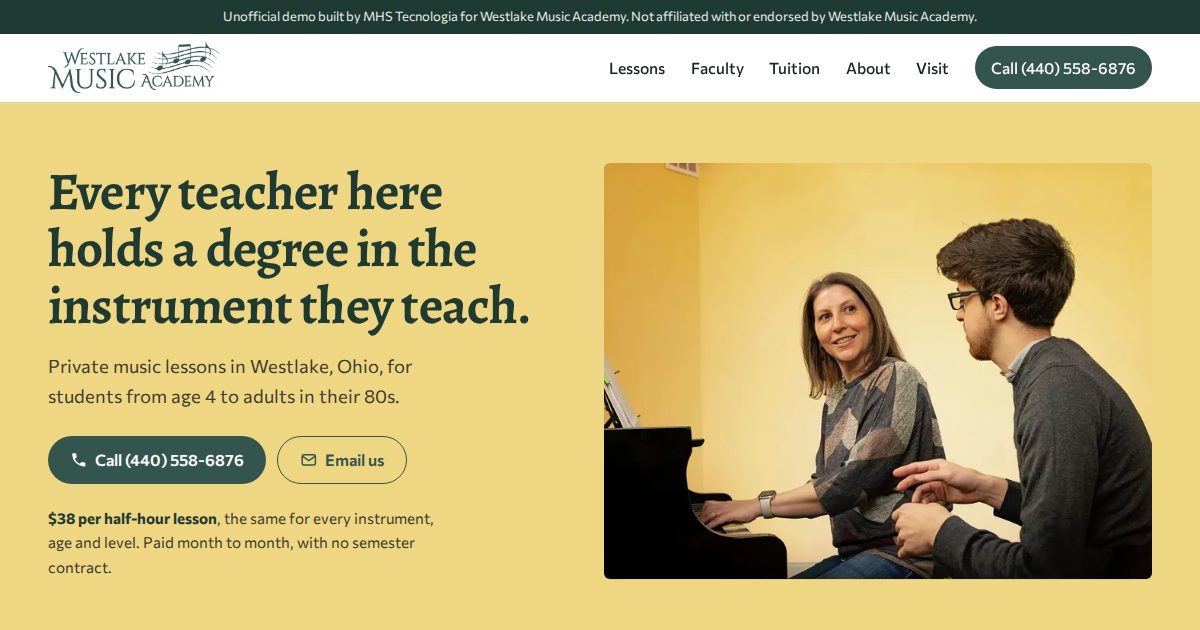
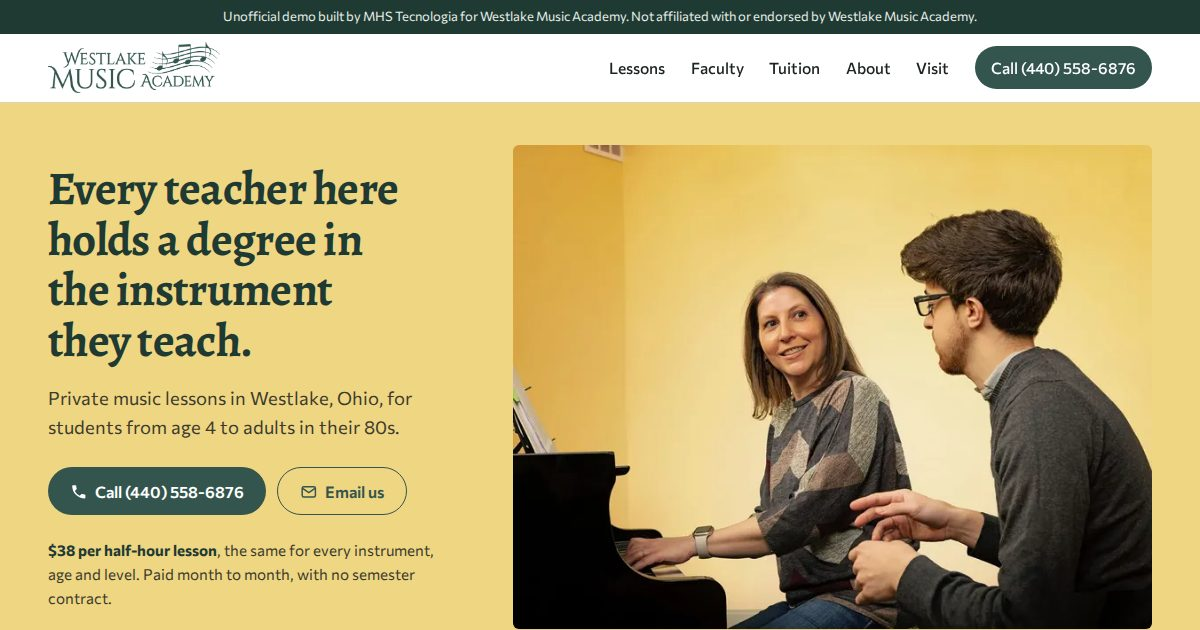
Previews: 98 ativos

diff --git a/westlake-music-academy-westlake-oh/index.html b/westlake-music-academy-westlake-oh/index.html
@@ -10,7 +10,7 @@
 <link rel="icon" href="data:,">
 <link rel="preload" href="fonts/alegreya.woff2" as="font" type="font/woff2" crossorigin>
 <link rel="preload" as="image" href="img/hero-m.webp" imagesrcset="img/hero-m.webp 800w" imagesizes="calc(100vw - 2rem)" media="(max-width: 760px)" fetchpriority="high">
-<link rel="preload" as="image" href="img/hero-1100.webp" imagesrcset="img/hero-720.webp 720w, img/hero-1100.webp 1100w" imagesizes="(min-width: 1216px) 620px, 52vw" media="(min-width: 761px)" fetchpriority="high">
+<link rel="preload" as="image" href="img/hero-1100.webp" imagesrcset="img/hero-720.webp 720w, img/hero-1100.webp 1100w" imagesizes="(min-width: 1216px) 700px, 58vw" media="(min-width: 761px)" fetchpriority="high">
 <style>
 @font-face{font-family:"Alegreya";font-weight:400 900;font-style:normal;font-display:swap;src:url(fonts/alegreya.woff2) format("woff2")}
 @font-face{font-family:"Alegreya";font-weight:400 900;font-style:italic;font-display:swap;src:url(fonts/alegreya-italic.woff2) format("woff2")}
@@ -67,8 +67,8 @@ p{max-width:64ch}
 
 /* hero: the lesson-room wall runs behind the photo */
 .hero{background:var(--wall)}
-.hero .wrap{display:grid;grid-template-columns:1fr 1.08fr;gap:clamp(1.5rem,4vw,4rem);align-items:center;padding-block:clamp(2.5rem,5vw,4.5rem)}
-.hero h1{font-size:clamp(2.1rem,4.4vw,3.85rem);letter-spacing:-.015em}
+.hero .wrap{display:grid;grid-template-columns:.86fr 1.3fr;gap:clamp(1.5rem,3.5vw,3.5rem);align-items:center;padding-block:clamp(2rem,3.5vw,3rem)}
+.hero h1{font-size:clamp(2.1rem,3.9vw,3.4rem);letter-spacing:-.015em}
 .hero .sub{font-size:1.15rem;margin-top:1.1rem;color:#3b3a2c;max-width:34ch}
 .hero .actions{display:flex;flex-wrap:wrap;gap:.7rem;margin-top:1.6rem}
 .hero .fact{margin-top:1.4rem;font-size:.95rem;color:#3b3a2c;max-width:40ch}
@@ -82,7 +82,7 @@ p{max-width:64ch}
   .hero .actions{margin-top:1rem;flex-wrap:nowrap}
   .hero .actions .btn{flex:1 1 auto;padding-inline:.85rem;font-size:.94rem;white-space:nowrap;gap:.4rem}
   .hero .actions .btn.solid{flex-grow:1.6}
-  .hero .fact{display:none}
+  .hero .fact{margin-top:.75rem;font-size:.88rem;line-height:1.45}
 }
 
 /* the instrument finder (signature) */
@@ -119,6 +119,11 @@ p{max-width:64ch}
   .sheet ul{grid-template-columns:1fr}
 }
 
+/* recognition, in their own words, as text */
+.honors{border-block:1px solid var(--rule)}
+.honors .wrap{display:flex;flex-wrap:wrap;justify-content:center;gap:.6rem 3rem;padding-block:1.3rem;text-align:center}
+.honors p{font-family:var(--serif);font-size:1.15rem;color:var(--muted);max-width:none}
+.honors strong{color:var(--green-deep)}
 /* how a month of lessons works */
 .month{background:var(--wall-soft);padding-block:clamp(3rem,7vw,6rem)}
 .month .wrap{display:grid;grid-template-columns:1fr 1fr;gap:clamp(2rem,5vw,4.5rem);align-items:start}
@@ -260,7 +265,7 @@ footer.foot .legal{grid-column:1/-1;border-top:1px solid #2f413a;padding-top:1.2
   <figure>
    <picture>
     <source media="(max-width: 760px)" srcset="img/hero-m.webp 800w" sizes="calc(100vw - 2rem)" width="800" height="474">
-    <img src="img/hero-1100.webp" srcset="img/hero-720.webp 720w, img/hero-1100.webp 1100w" sizes="(min-width: 1216px) 620px, 52vw" width="1100" height="835" alt="A teacher sitting beside her student at a grand piano in a yellow lesson room" fetchpriority="high">
+    <img src="img/hero-1100.webp" srcset="img/hero-720.webp 720w, img/hero-1100.webp 1100w" sizes="(min-width: 1216px) 700px, 58vw" width="1100" height="835" alt="A teacher sitting beside her student at a grand piano in a yellow lesson room" fetchpriority="high">
    </picture>
   </figure>
  </div>
@@ -314,11 +319,17 @@ footer.foot .legal{grid-column:1/-1;border-top:1px solid #2f413a;padding-top:1.2
   </div>
  </div>
 </section>
+<section class="honors" aria-label="Recognition">
+ <div class="wrap">
+  <p><strong>Cleveland Magazine Best of the West 2020</strong>, Music Instruction</p>
+  <p><strong>Lessons.com Best Piano Lessons in Lakewood 2024</strong></p>
+ </div>
+</section>
 <section class="month" aria-labelledby="month-h">
  <div class="wrap">
   <figure>
    <img src="img/room-960.webp" srcset="img/room-560.webp 560w, img/room-960.webp 960w" sizes="(min-width: 1216px) 560px, (min-width: 761px) 46vw, calc(100vw - 2rem)" width="960" height="640" alt="An empty lesson room with an upright piano and a window in the door" loading="lazy" decoding="async">
-   <figcaption>Every lesson room has a window in the door.</figcaption>
+   <figcaption>Every lesson room has an observation window.</figcaption>
   </figure>
   <div>
    <h2 id="month-h">How lessons work</h2>

diff --git a/westlake-music-academy-westlake-oh/lessons.html b/westlake-music-academy-westlake-oh/lessons.html
@@ -65,8 +65,8 @@ p{max-width:64ch}
 
 /* hero: the lesson-room wall runs behind the photo */
 .hero{background:var(--wall)}
-.hero .wrap{display:grid;grid-template-columns:1fr 1.08fr;gap:clamp(1.5rem,4vw,4rem);align-items:center;padding-block:clamp(2.5rem,5vw,4.5rem)}
-.hero h1{font-size:clamp(2.1rem,4.4vw,3.85rem);letter-spacing:-.015em}
+.hero .wrap{display:grid;grid-template-columns:.86fr 1.3fr;gap:clamp(1.5rem,3.5vw,3.5rem);align-items:center;padding-block:clamp(2rem,3.5vw,3rem)}
+.hero h1{font-size:clamp(2.1rem,3.9vw,3.4rem);letter-spacing:-.015em}
 .hero .sub{font-size:1.15rem;margin-top:1.1rem;color:#3b3a2c;max-width:34ch}
 .hero .actions{display:flex;flex-wrap:wrap;gap:.7rem;margin-top:1.6rem}
 .hero .fact{margin-top:1.4rem;font-size:.95rem;color:#3b3a2c;max-width:40ch}
@@ -80,7 +80,7 @@ p{max-width:64ch}
   .hero .actions{margin-top:1rem;flex-wrap:nowrap}
   .hero .actions .btn{flex:1 1 auto;padding-inline:.85rem;font-size:.94rem;white-space:nowrap;gap:.4rem}
   .hero .actions .btn.solid{flex-grow:1.6}
-  .hero .fact{display:none}
+  .hero .fact{margin-top:.75rem;font-size:.88rem;line-height:1.45}
 }
 
 /* the instrument finder (signature) */
@@ -117,6 +117,11 @@ p{max-width:64ch}
   .sheet ul{grid-template-columns:1fr}
 }
 
+/* recognition, in their own words, as text */
+.honors{border-block:1px solid var(--rule)}
+.honors .wrap{display:flex;flex-wrap:wrap;justify-content:center;gap:.6rem 3rem;padding-block:1.3rem;text-align:center}
+.honors p{font-family:var(--serif);font-size:1.15rem;color:var(--muted);max-width:none}
+.honors strong{color:var(--green-deep)}
 /* how a month of lessons works */
 .month{background:var(--wall-soft);padding-block:clamp(3rem,7vw,6rem)}
 .month .wrap{display:grid;grid-template-columns:1fr 1fr;gap:clamp(2rem,5vw,4.5rem);align-items:start}
@@ -245,7 +250,7 @@ footer.foot .legal{grid-column:1/-1;border-top:1px solid #2f413a;padding-top:1.2
  <div class="gallery">
   <figure><img src="img/guitar-960.webp" srcset="img/guitar-560.webp 560w, img/guitar-960.webp 960w" sizes="(min-width: 1216px) 570px, (min-width: 761px) 46vw, calc(100vw - 2rem)" width="960" height="640" alt="A guitar teacher and his student playing electric guitars side by side" loading="lazy" decoding="async"><figcaption>Guitar</figcaption></figure>
   <figure><img src="img/violin-960.webp" srcset="img/violin-560.webp 560w, img/violin-960.webp 960w" sizes="(min-width: 1216px) 570px, (min-width: 761px) 46vw, calc(100vw - 2rem)" width="960" height="640" alt="A violin teacher standing with a young violinist, a woman seated nearby" loading="lazy" decoding="async"><figcaption>Violin</figcaption></figure>
-  <figure><img src="img/classical-960.webp" srcset="img/classical-560.webp 560w, img/classical-960.webp 960w" sizes="(min-width: 1216px) 570px, (min-width: 761px) 46vw, calc(100vw - 2rem)" width="960" height="640" alt="A student playing classical guitar" loading="lazy" decoding="async"><figcaption>Classical guitar</figcaption></figure>
+  <figure><img src="img/cello-960.webp" srcset="img/cello-560.webp 560w, img/cello-960.webp 936w" sizes="(min-width: 1216px) 570px, (min-width: 761px) 46vw, calc(100vw - 2rem)" width="936" height="768" alt="A cellist in a dark shirt playing, seated against a dark backdrop" loading="lazy" decoding="async"><figcaption>Cello</figcaption></figure>
   <figure><img src="img/drums-960.webp" srcset="img/drums-560.webp 560w, img/drums-960.webp 960w" sizes="(min-width: 1216px) 570px, (min-width: 761px) 46vw, calc(100vw - 2rem)" width="960" height="640" alt="A student at an electronic drum kit holding her sticks" loading="lazy" decoding="async"><figcaption>Drums</figcaption></figure>
  </div>
 </div></section>

diff --git a/westlake-music-academy-westlake-oh/about.html b/westlake-music-academy-westlake-oh/about.html
@@ -65,8 +65,8 @@ p{max-width:64ch}
 
 /* hero: the lesson-room wall runs behind the photo */
 .hero{background:var(--wall)}
-.hero .wrap{display:grid;grid-template-columns:1fr 1.08fr;gap:clamp(1.5rem,4vw,4rem);align-items:center;padding-block:clamp(2.5rem,5vw,4.5rem)}
-.hero h1{font-size:clamp(2.1rem,4.4vw,3.85rem);letter-spacing:-.015em}
+.hero .wrap{display:grid;grid-template-columns:.86fr 1.3fr;gap:clamp(1.5rem,3.5vw,3.5rem);align-items:center;padding-block:clamp(2rem,3.5vw,3rem)}
+.hero h1{font-size:clamp(2.1rem,3.9vw,3.4rem);letter-spacing:-.015em}
 .hero .sub{font-size:1.15rem;margin-top:1.1rem;color:#3b3a2c;max-width:34ch}
 .hero .actions{display:flex;flex-wrap:wrap;gap:.7rem;margin-top:1.6rem}
 .hero .fact{margin-top:1.4rem;font-size:.95rem;color:#3b3a2c;max-width:40ch}
@@ -80,7 +80,7 @@ p{max-width:64ch}
   .hero .actions{margin-top:1rem;flex-wrap:nowrap}
   .hero .actions .btn{flex:1 1 auto;padding-inline:.85rem;font-size:.94rem;white-space:nowrap;gap:.4rem}
   .hero .actions .btn.solid{flex-grow:1.6}
-  .hero .fact{display:none}
+  .hero .fact{margin-top:.75rem;font-size:.88rem;line-height:1.45}
 }
 
 /* the instrument finder (signature) */
@@ -117,6 +117,11 @@ p{max-width:64ch}
   .sheet ul{grid-template-columns:1fr}
 }
 
+/* recognition, in their own words, as text */
+.honors{border-block:1px solid var(--rule)}
+.honors .wrap{display:flex;flex-wrap:wrap;justify-content:center;gap:.6rem 3rem;padding-block:1.3rem;text-align:center}
+.honors p{font-family:var(--serif);font-size:1.15rem;color:var(--muted);max-width:none}
+.honors strong{color:var(--green-deep)}
 /* how a month of lessons works */
 .month{background:var(--wall-soft);padding-block:clamp(3rem,7vw,6rem)}
 .month .wrap{display:grid;grid-template-columns:1fr 1fr;gap:clamp(2rem,5vw,4.5rem);align-items:start}

diff --git a/westlake-music-academy-westlake-oh/faculty.html b/westlake-music-academy-westlake-oh/faculty.html
@@ -65,8 +65,8 @@ p{max-width:64ch}
 
 /* hero: the lesson-room wall runs behind the photo */
 .hero{background:var(--wall)}
-.hero .wrap{display:grid;grid-template-columns:1fr 1.08fr;gap:clamp(1.5rem,4vw,4rem);align-items:center;padding-block:clamp(2.5rem,5vw,4.5rem)}
-.hero h1{font-size:clamp(2.1rem,4.4vw,3.85rem);letter-spacing:-.015em}
+.hero .wrap{display:grid;grid-template-columns:.86fr 1.3fr;gap:clamp(1.5rem,3.5vw,3.5rem);align-items:center;padding-block:clamp(2rem,3.5vw,3rem)}
+.hero h1{font-size:clamp(2.1rem,3.9vw,3.4rem);letter-spacing:-.015em}
 .hero .sub{font-size:1.15rem;margin-top:1.1rem;color:#3b3a2c;max-width:34ch}
 .hero .actions{display:flex;flex-wrap:wrap;gap:.7rem;margin-top:1.6rem}
 .hero .fact{margin-top:1.4rem;font-size:.95rem;color:#3b3a2c;max-width:40ch}
@@ -80,7 +80,7 @@ p{max-width:64ch}
   .hero .actions{margin-top:1rem;flex-wrap:nowrap}
   .hero .actions .btn{flex:1 1 auto;padding-inline:.85rem;font-size:.94rem;white-space:nowrap;gap:.4rem}
   .hero .actions .btn.solid{flex-grow:1.6}
-  .hero .fact{display:none}
+  .hero .fact{margin-top:.75rem;font-size:.88rem;line-height:1.45}
 }
 
 /* the instrument finder (signature) */
@@ -117,6 +117,11 @@ p{max-width:64ch}
   .sheet ul{grid-template-columns:1fr}
 }
 
+/* recognition, in their own words, as text */
+.honors{border-block:1px solid var(--rule)}
+.honors .wrap{display:flex;flex-wrap:wrap;justify-content:center;gap:.6rem 3rem;padding-block:1.3rem;text-align:center}
+.honors p{font-family:var(--serif);font-size:1.15rem;color:var(--muted);max-width:none}
+.honors strong{color:var(--green-deep)}
 /* how a month of lessons works */
 .month{background:var(--wall-soft);padding-block:clamp(3rem,7vw,6rem)}
 .month .wrap{display:grid;grid-template-columns:1fr 1fr;gap:clamp(2rem,5vw,4.5rem);align-items:start}

diff --git a/westlake-music-academy-westlake-oh/tuition.html b/westlake-music-academy-westlake-oh/tuition.html
@@ -65,8 +65,8 @@ p{max-width:64ch}
 
 /* hero: the lesson-room wall runs behind the photo */
 .hero{background:var(--wall)}
-.hero .wrap{display:grid;grid-template-columns:1fr 1.08fr;gap:clamp(1.5rem,4vw,4rem);align-items:center;padding-block:clamp(2.5rem,5vw,4.5rem)}
-.hero h1{font-size:clamp(2.1rem,4.4vw,3.85rem);letter-spacing:-.015em}
+.hero .wrap{display:grid;grid-template-columns:.86fr 1.3fr;gap:clamp(1.5rem,3.5vw,3.5rem);align-items:center;padding-block:clamp(2rem,3.5vw,3rem)}
+.hero h1{font-size:clamp(2.1rem,3.9vw,3.4rem);letter-spacing:-.015em}
 .hero .sub{font-size:1.15rem;margin-top:1.1rem;color:#3b3a2c;max-width:34ch}
 .hero .actions{display:flex;flex-wrap:wrap;gap:.7rem;margin-top:1.6rem}
 .hero .fact{margin-top:1.4rem;font-size:.95rem;color:#3b3a2c;max-width:40ch}
@@ -80,7 +80,7 @@ p{max-width:64ch}
   .hero .actions{margin-top:1rem;flex-wrap:nowrap}
   .hero .actions .btn{flex:1 1 auto;padding-inline:.85rem;font-size:.94rem;white-space:nowrap;gap:.4rem}
   .hero .actions .btn.solid{flex-grow:1.6}
-  .hero .fact{display:none}
+  .hero .fact{margin-top:.75rem;font-size:.88rem;line-height:1.45}
 }
 
 /* the instrument finder (signature) */
@@ -117,6 +117,11 @@ p{max-width:64ch}
   .sheet ul{grid-template-columns:1fr}
 }
 
+/* recognition, in their own words, as text */
+.honors{border-block:1px solid var(--rule)}
+.honors .wrap{display:flex;flex-wrap:wrap;justify-content:center;gap:.6rem 3rem;padding-block:1.3rem;text-align:center}
+.honors p{font-family:var(--serif);font-size:1.15rem;color:var(--muted);max-width:none}
+.honors strong{color:var(--green-deep)}
 /* how a month of lessons works */
 .month{background:var(--wall-soft);padding-block:clamp(3rem,7vw,6rem)}
 .month .wrap{display:grid;grid-template-columns:1fr 1fr;gap:clamp(2rem,5vw,4.5rem);align-items:start}

diff --git a/westlake-music-academy-westlake-oh/visit.html b/westlake-music-academy-westlake-oh/visit.html
@@ -65,8 +65,8 @@ p{max-width:64ch}
 
 /* hero: the lesson-room wall runs behind the photo */
 .hero{background:var(--wall)}
-.hero .wrap{display:grid;grid-template-columns:1fr 1.08fr;gap:clamp(1.5rem,4vw,4rem);align-items:center;padding-block:clamp(2.5rem,5vw,4.5rem)}
-.hero h1{font-size:clamp(2.1rem,4.4vw,3.85rem);letter-spacing:-.015em}
+.hero .wrap{display:grid;grid-template-columns:.86fr 1.3fr;gap:clamp(1.5rem,3.5vw,3.5rem);align-items:center;padding-block:clamp(2rem,3.5vw,3rem)}
+.hero h1{font-size:clamp(2.1rem,3.9vw,3.4rem);letter-spacing:-.015em}
 .hero .sub{font-size:1.15rem;margin-top:1.1rem;color:#3b3a2c;max-width:34ch}
 .hero .actions{display:flex;flex-wrap:wrap;gap:.7rem;margin-top:1.6rem}
 .hero .fact{margin-top:1.4rem;font-size:.95rem;color:#3b3a2c;max-width:40ch}
@@ -80,7 +80,7 @@ p{max-width:64ch}
   .hero .actions{margin-top:1rem;flex-wrap:nowrap}
   .hero .actions .btn{flex:1 1 auto;padding-inline:.85rem;font-size:.94rem;white-space:nowrap;gap:.4rem}
   .hero .actions .btn.solid{flex-grow:1.6}
-  .hero .fact{display:none}
+  .hero .fact{margin-top:.75rem;font-size:.88rem;line-height:1.45}
 }
 
 /* the instrument finder (signature) */
@@ -117,6 +117,11 @@ p{max-width:64ch}
   .sheet ul{grid-template-columns:1fr}
 }
 
+/* recognition, in their own words, as text */
+.honors{border-block:1px solid var(--rule)}
+.honors .wrap{display:flex;flex-wrap:wrap;justify-content:center;gap:.6rem 3rem;padding-block:1.3rem;text-align:center}
+.honors p{font-family:var(--serif);font-size:1.15rem;color:var(--muted);max-width:none}
+.honors strong{color:var(--green-deep)}
 /* how a month of lessons works */
 .month{background:var(--wall-soft);padding-block:clamp(3rem,7vw,6rem)}
 .month .wrap{display:grid;grid-template-columns:1fr 1fr;gap:clamp(2rem,5vw,4.5rem);align-items:start}
